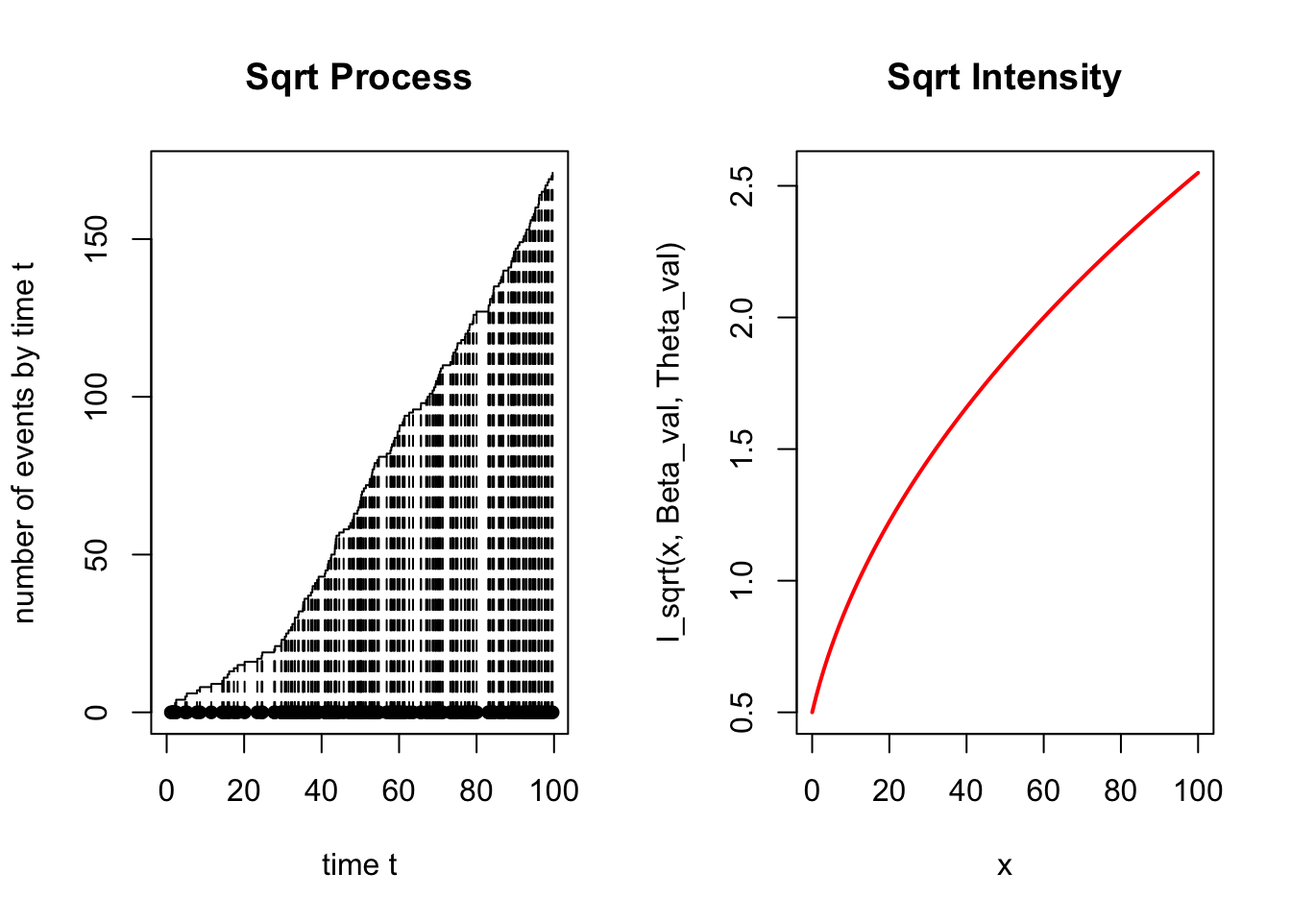
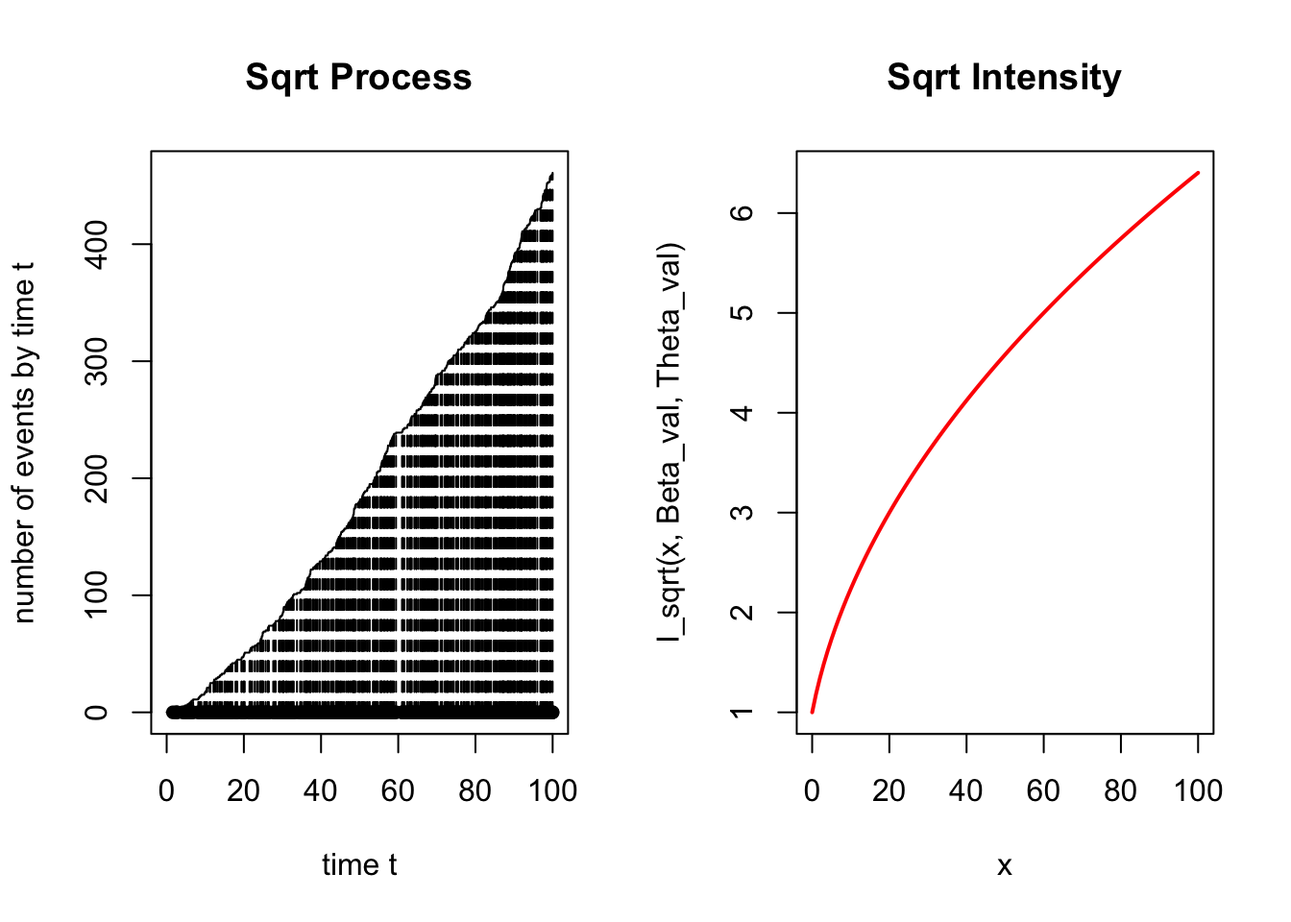
push final simulation

diff --git a/Simulation/TP-PoissonProcess-fusion.html b/Simulation/TP-PoissonProcess-fusion.html
@@ -179,10 +179,13 @@ window.Quarto = {
 <h2 class="anchored" data-anchor-id="intensity-functions">Intensity functions</h2>
 <p>We define different intensity functions such that for <span class="math inline">\(H_0 : \beta =1\)</span> the intensity has a constant rate.</p>
 <div class="cell">
-<div class="code-copy-outer-scaffold"><div class="sourceCode cell-code" id="cb4"><pre class="sourceCode r code-with-copy"><code class="sourceCode r"><span id="cb4-1"><a href="#cb4-1" aria-hidden="true" tabindex="-1"></a>Weibull_I <span class="ot">&lt;-</span> <span class="cf">function</span>(x, beta, theta) (beta <span class="sc">/</span> theta) <span class="sc">*</span> (x <span class="sc">/</span> theta)<span class="sc">^</span>(beta <span class="sc">-</span> <span class="dv">1</span>)</span>
-<span id="cb4-2"><a href="#cb4-2" aria-hidden="true" tabindex="-1"></a>I_exp    <span class="ot">&lt;-</span> <span class="cf">function</span>(t, beta, theta) (<span class="dv">1</span><span class="sc">/</span><span class="dv">50</span><span class="sc">*</span>theta) <span class="sc">*</span> <span class="fu">exp</span>((beta <span class="sc">-</span> <span class="dv">1</span>) <span class="sc">*</span> t <span class="sc">/</span> <span class="dv">50</span><span class="sc">*</span>theta)</span>
-<span id="cb4-3"><a href="#cb4-3" aria-hidden="true" tabindex="-1"></a>I_sqrt <span class="ot">&lt;-</span> <span class="cf">function</span>(t, beta, theta) (<span class="dv">1</span><span class="sc">/</span>theta) <span class="sc">*</span> <span class="fu">sqrt</span>(<span class="dv">1</span> <span class="sc">+</span> (beta <span class="sc">-</span> <span class="dv">1</span>) <span class="sc">*</span> t <span class="sc">/</span> theta)</span>
-<span id="cb4-4"><a href="#cb4-4" aria-hidden="true" tabindex="-1"></a>I_log <span class="ot">&lt;-</span> <span class="cf">function</span>(t, beta, theta) (<span class="dv">1</span><span class="sc">/</span>theta) <span class="sc">*</span> (<span class="dv">1</span> <span class="sc">+</span> (beta <span class="sc">-</span> <span class="dv">1</span>) <span class="sc">*</span> <span class="fu">log</span>(<span class="dv">1</span> <span class="sc">+</span> t <span class="sc">/</span> theta))</span></code></pre></div><button title="Copy to Clipboard" class="code-copy-button"><i class="bi"></i></button></div>
+<div class="code-copy-outer-scaffold"><div class="sourceCode cell-code" id="cb4"><pre class="sourceCode r code-with-copy"><code class="sourceCode r"><span id="cb4-1"><a href="#cb4-1" aria-hidden="true" tabindex="-1"></a>Weibull_I <span class="ot">&lt;-</span> <span class="cf">function</span>(x, beta, theta) {(beta <span class="sc">/</span> theta) <span class="sc">*</span> (x <span class="sc">/</span> theta)<span class="sc">^</span>(beta <span class="sc">-</span> <span class="dv">1</span>)}</span>
+<span id="cb4-2"><a href="#cb4-2" aria-hidden="true" tabindex="-1"></a></span>
+<span id="cb4-3"><a href="#cb4-3" aria-hidden="true" tabindex="-1"></a>I_sigm <span class="ot">&lt;-</span> <span class="cf">function</span>(t, beta, theta) {<span class="dv">1</span> <span class="sc">+</span> (beta <span class="sc">-</span> <span class="dv">1</span>) <span class="sc">/</span> (<span class="dv">1</span> <span class="sc">+</span> <span class="fu">exp</span>(<span class="sc">-</span>(t <span class="sc">-</span> theta)))}</span>
+<span id="cb4-4"><a href="#cb4-4" aria-hidden="true" tabindex="-1"></a></span>
+<span id="cb4-5"><a href="#cb4-5" aria-hidden="true" tabindex="-1"></a></span>
+<span id="cb4-6"><a href="#cb4-6" aria-hidden="true" tabindex="-1"></a>I_sqrt <span class="ot">&lt;-</span> <span class="cf">function</span>(t, beta, theta){ (<span class="dv">1</span><span class="sc">/</span>theta) <span class="sc">*</span> <span class="fu">sqrt</span>(<span class="dv">1</span> <span class="sc">+</span> (beta <span class="sc">-</span> <span class="dv">1</span>) <span class="sc">*</span> t <span class="sc">/</span> theta)}</span>
+<span id="cb4-7"><a href="#cb4-7" aria-hidden="true" tabindex="-1"></a>I_log <span class="ot">&lt;-</span> <span class="cf">function</span>(t, beta, theta) {(<span class="dv">1</span><span class="sc">/</span>theta) <span class="sc">*</span> (<span class="dv">1</span> <span class="sc">+</span> (beta <span class="sc">-</span> <span class="dv">1</span>) <span class="sc">*</span> <span class="fu">log</span>(<span class="dv">1</span> <span class="sc">+</span> t <span class="sc">/</span> theta))}</span></code></pre></div><button title="Copy to Clipboard" class="code-copy-button"><i class="bi"></i></button></div>
 </div>
 </section>
 <section id="simulation-functions" class="level2">
@@ -190,26 +193,26 @@ window.Quarto = {
 <p>We now define the function needed to simulate the PP for each intensity function</p>
 <div class="cell">
 <div class="code-copy-outer-scaffold"><div class="sourceCode cell-code" id="cb5"><pre class="sourceCode r code-with-copy"><code class="sourceCode r"><span id="cb5-1"><a href="#cb5-1" aria-hidden="true" tabindex="-1"></a>simulWeibull <span class="ot">&lt;-</span> <span class="cf">function</span>(beta, theta, Tmax) {</span>
-<span id="cb5-2"><a href="#cb5-2" aria-hidden="true" tabindex="-1"></a>  f     <span class="ot">&lt;-</span> <span class="cf">function</span>(t) <span class="fu">Weibull_I</span>(t, beta, theta)</span>
+<span id="cb5-2"><a href="#cb5-2" aria-hidden="true" tabindex="-1"></a>  f     <span class="ot">&lt;-</span> <span class="cf">function</span>(t) {<span class="fu">Weibull_I</span>(t, beta, theta)}</span>
 <span id="cb5-3"><a href="#cb5-3" aria-hidden="true" tabindex="-1"></a>  M_val <span class="ot">&lt;-</span> <span class="fu">f</span>(Tmax)</span>
 <span id="cb5-4"><a href="#cb5-4" aria-hidden="true" tabindex="-1"></a>  <span class="fu">return</span>(<span class="fu">simulPPi</span>(f, Tmax, M_val))</span>
 <span id="cb5-5"><a href="#cb5-5" aria-hidden="true" tabindex="-1"></a>}</span>
 <span id="cb5-6"><a href="#cb5-6" aria-hidden="true" tabindex="-1"></a></span>
 <span id="cb5-7"><a href="#cb5-7" aria-hidden="true" tabindex="-1"></a></span>
 <span id="cb5-8"><a href="#cb5-8" aria-hidden="true" tabindex="-1"></a>simulLog <span class="ot">&lt;-</span> <span class="cf">function</span>(beta, theta, Tmax) {</span>
-<span id="cb5-9"><a href="#cb5-9" aria-hidden="true" tabindex="-1"></a>  f     <span class="ot">&lt;-</span> <span class="cf">function</span>(t) <span class="fu">I_log</span>(t, beta, theta)</span>
+<span id="cb5-9"><a href="#cb5-9" aria-hidden="true" tabindex="-1"></a>  f     <span class="ot">&lt;-</span> <span class="cf">function</span>(t) {<span class="fu">I_log</span>(t, beta, theta)}</span>
 <span id="cb5-10"><a href="#cb5-10" aria-hidden="true" tabindex="-1"></a>  M_val <span class="ot">&lt;-</span> <span class="fu">f</span>(Tmax)</span>
 <span id="cb5-11"><a href="#cb5-11" aria-hidden="true" tabindex="-1"></a>  <span class="fu">return</span>(<span class="fu">simulPPi</span>(f, Tmax, M_val))</span>
 <span id="cb5-12"><a href="#cb5-12" aria-hidden="true" tabindex="-1"></a>}</span>
 <span id="cb5-13"><a href="#cb5-13" aria-hidden="true" tabindex="-1"></a></span>
-<span id="cb5-14"><a href="#cb5-14" aria-hidden="true" tabindex="-1"></a>simulExp <span class="ot">&lt;-</span> <span class="cf">function</span>(beta, theta, Tmax) {</span>
-<span id="cb5-15"><a href="#cb5-15" aria-hidden="true" tabindex="-1"></a>  f     <span class="ot">&lt;-</span> <span class="cf">function</span>(t) <span class="fu">I_exp</span>(t, beta, theta)</span>
+<span id="cb5-14"><a href="#cb5-14" aria-hidden="true" tabindex="-1"></a>simulSigm <span class="ot">&lt;-</span> <span class="cf">function</span>(beta, theta, Tmax) {</span>
+<span id="cb5-15"><a href="#cb5-15" aria-hidden="true" tabindex="-1"></a>  f     <span class="ot">&lt;-</span> <span class="cf">function</span>(t) {<span class="fu">I_sigm</span>(t, beta, theta)}</span>
 <span id="cb5-16"><a href="#cb5-16" aria-hidden="true" tabindex="-1"></a>  M_val <span class="ot">&lt;-</span> <span class="fu">f</span>(Tmax)</span>
 <span id="cb5-17"><a href="#cb5-17" aria-hidden="true" tabindex="-1"></a>  <span class="fu">return</span>(<span class="fu">simulPPi</span>(f, Tmax, M_val))</span>
 <span id="cb5-18"><a href="#cb5-18" aria-hidden="true" tabindex="-1"></a>}</span>
 <span id="cb5-19"><a href="#cb5-19" aria-hidden="true" tabindex="-1"></a></span>
 <span id="cb5-20"><a href="#cb5-20" aria-hidden="true" tabindex="-1"></a>simulSqrt <span class="ot">&lt;-</span> <span class="cf">function</span>(beta, theta, Tmax) {</span>
-<span id="cb5-21"><a href="#cb5-21" aria-hidden="true" tabindex="-1"></a>  f     <span class="ot">&lt;-</span> <span class="cf">function</span>(t) <span class="fu">I_sqrt</span>(t, beta, theta)</span>
+<span id="cb5-21"><a href="#cb5-21" aria-hidden="true" tabindex="-1"></a>  f     <span class="ot">&lt;-</span> <span class="cf">function</span>(t) {<span class="fu">I_sqrt</span>(t, beta, theta)}</span>
 <span id="cb5-22"><a href="#cb5-22" aria-hidden="true" tabindex="-1"></a>  M_val <span class="ot">&lt;-</span> <span class="fu">f</span>(Tmax)</span>
 <span id="cb5-23"><a href="#cb5-23" aria-hidden="true" tabindex="-1"></a>  <span class="fu">return</span>(<span class="fu">simulPPi</span>(f, Tmax, M_val))</span>
 <span id="cb5-24"><a href="#cb5-24" aria-hidden="true" tabindex="-1"></a>}</span></code></pre></div><button title="Copy to Clipboard" class="code-copy-button"><i class="bi"></i></button></div>
@@ -219,8 +222,8 @@ window.Quarto = {
 <h2 class="anchored" data-anchor-id="simulation-and-plot">Simulation and plot</h2>
 <p>Let’s see !</p>
 <div class="cell">
-<div class="code-copy-outer-scaffold"><div class="sourceCode cell-code" id="cb6"><pre class="sourceCode r code-with-copy"><code class="sourceCode r"><span id="cb6-1"><a href="#cb6-1" aria-hidden="true" tabindex="-1"></a>Beta_val  <span class="ot">&lt;-</span> <span class="fl">1.5</span></span>
-<span id="cb6-2"><a href="#cb6-2" aria-hidden="true" tabindex="-1"></a>Theta_val <span class="ot">&lt;-</span> <span class="dv">2</span></span>
+<div class="code-copy-outer-scaffold"><div class="sourceCode cell-code" id="cb6"><pre class="sourceCode r code-with-copy"><code class="sourceCode r"><span id="cb6-1"><a href="#cb6-1" aria-hidden="true" tabindex="-1"></a>Beta_val  <span class="ot">&lt;-</span> <span class="fl">1.4</span></span>
+<span id="cb6-2"><a href="#cb6-2" aria-hidden="true" tabindex="-1"></a>Theta_val <span class="ot">&lt;-</span> <span class="dv">1</span></span>
 <span id="cb6-3"><a href="#cb6-3" aria-hidden="true" tabindex="-1"></a>Tmax_val  <span class="ot">&lt;-</span> <span class="dv">100</span></span>
 <span id="cb6-4"><a href="#cb6-4" aria-hidden="true" tabindex="-1"></a></span>
 <span id="cb6-5"><a href="#cb6-5" aria-hidden="true" tabindex="-1"></a><span class="fu">par</span>(<span class="at">mfrow =</span> <span class="fu">c</span>(<span class="dv">1</span>, <span class="dv">2</span>))</span>
@@ -246,9 +249,9 @@ window.Quarto = {
 </div>
 </div>
 <div class="code-copy-outer-scaffold"><div class="sourceCode cell-code" id="cb8"><pre class="sourceCode r code-with-copy"><code class="sourceCode r"><span id="cb8-1"><a href="#cb8-1" aria-hidden="true" tabindex="-1"></a><span class="fu">par</span>(<span class="at">mfrow =</span> <span class="fu">c</span>(<span class="dv">1</span>, <span class="dv">2</span>))</span>
-<span id="cb8-2"><a href="#cb8-2" aria-hidden="true" tabindex="-1"></a>simE <span class="ot">&lt;-</span> <span class="fu">simulExp</span>(Beta_val, Theta_val, Tmax_val)</span>
-<span id="cb8-3"><a href="#cb8-3" aria-hidden="true" tabindex="-1"></a><span class="fu">plot.PP</span>(simE); <span class="fu">title</span>(<span class="st">"Exp Process"</span>)</span>
-<span id="cb8-4"><a href="#cb8-4" aria-hidden="true" tabindex="-1"></a><span class="fu">curve</span>(<span class="fu">I_exp</span>(x, Beta_val, Theta_val), <span class="dv">0</span>, Tmax_val, <span class="at">col =</span> <span class="st">"red"</span>, <span class="at">lwd =</span> <span class="dv">2</span>, <span class="at">main =</span> <span class="st">"Exp Intensity"</span>)</span></code></pre></div><button title="Copy to Clipboard" class="code-copy-button"><i class="bi"></i></button></div>
+<span id="cb8-2"><a href="#cb8-2" aria-hidden="true" tabindex="-1"></a>simSg <span class="ot">&lt;-</span> <span class="fu">simulSigm</span>(Beta_val, Theta_val, Tmax_val)</span>
+<span id="cb8-3"><a href="#cb8-3" aria-hidden="true" tabindex="-1"></a><span class="fu">plot.PP</span>(simSg); <span class="fu">title</span>(<span class="st">"Sigmoid Process"</span>)</span>
+<span id="cb8-4"><a href="#cb8-4" aria-hidden="true" tabindex="-1"></a><span class="fu">curve</span>(<span class="fu">I_sigm</span>(x, Beta_val, Theta_val), <span class="dv">0</span>, Tmax_val, <span class="at">col =</span> <span class="st">"red"</span>, <span class="at">lwd =</span> <span class="dv">2</span>, <span class="at">main =</span> <span class="st">"Sigmoid Intensity"</span>)</span></code></pre></div><button title="Copy to Clipboard" class="code-copy-button"><i class="bi"></i></button></div>
 <div class="cell-output-display">
 <div>
 <figure class="figure">
@@ -399,13 +402,13 @@ window.Quarto = {
 <span id="cb22-27"><a href="#cb22-27" aria-hidden="true" tabindex="-1"></a>  <span class="fu">abline</span>(<span class="at">h =</span> <span class="fl">0.05</span>, <span class="at">col =</span> <span class="st">"darkgrey"</span>, <span class="at">lty =</span> <span class="dv">2</span>)</span>
 <span id="cb22-28"><a href="#cb22-28" aria-hidden="true" tabindex="-1"></a>  <span class="fu">lines</span>(liste_beta, puissances_C, <span class="at">col =</span> <span class="st">"blue"</span>, <span class="at">lwd =</span> <span class="dv">2</span>, <span class="at">type =</span> <span class="st">"b"</span>, <span class="at">pch =</span> <span class="dv">19</span>)</span>
 <span id="cb22-29"><a href="#cb22-29" aria-hidden="true" tabindex="-1"></a>  <span class="fu">lines</span>(liste_beta, puissances_B, <span class="at">col =</span> <span class="st">"red"</span>,  <span class="at">lwd =</span> <span class="dv">2</span>, <span class="at">type =</span> <span class="st">"b"</span>, <span class="at">pch =</span> <span class="dv">17</span>)</span>
-<span id="cb22-30"><a href="#cb22-30" aria-hidden="true" tabindex="-1"></a>  <span class="fu">legend</span>(<span class="st">"bottomright"</span>, <span class="at">legend =</span> <span class="fu">c</span>(<span class="st">"Crow"</span>, <span class="st">"Barlow"</span>),</span>
+<span id="cb22-30"><a href="#cb22-30" aria-hidden="true" tabindex="-1"></a>  <span class="fu">legend</span>(<span class="st">"topright"</span>, <span class="at">legend =</span> <span class="fu">c</span>(<span class="st">"Crow"</span>, <span class="st">"Barlow"</span>),</span>
 <span id="cb22-31"><a href="#cb22-31" aria-hidden="true" tabindex="-1"></a>         <span class="at">col =</span> <span class="fu">c</span>(<span class="st">"blue"</span>, <span class="st">"red"</span>), <span class="at">lwd =</span> <span class="dv">2</span>, <span class="at">pch =</span> <span class="fu">c</span>(<span class="dv">19</span>, <span class="dv">17</span>), <span class="at">bty =</span> <span class="st">"n"</span>)</span>
 <span id="cb22-32"><a href="#cb22-32" aria-hidden="true" tabindex="-1"></a>}</span></code></pre></div><button title="Copy to Clipboard" class="code-copy-button"><i class="bi"></i></button></div>
 </div>
 <div class="cell">
-<div class="code-copy-outer-scaffold"><div class="sourceCode cell-code" id="cb23"><pre class="sourceCode r code-with-copy"><code class="sourceCode r"><span id="cb23-1"><a href="#cb23-1" aria-hidden="true" tabindex="-1"></a>betas_test <span class="ot">&lt;-</span> <span class="fu">seq</span>(<span class="dv">1</span>, <span class="fl">1.5</span>, <span class="at">by =</span> <span class="fl">0.1</span>)</span>
-<span id="cb23-2"><a href="#cb23-2" aria-hidden="true" tabindex="-1"></a>nsimu      <span class="ot">&lt;-</span> <span class="dv">100</span></span>
+<div class="code-copy-outer-scaffold"><div class="sourceCode cell-code" id="cb23"><pre class="sourceCode r code-with-copy"><code class="sourceCode r"><span id="cb23-1"><a href="#cb23-1" aria-hidden="true" tabindex="-1"></a>betas_test <span class="ot">&lt;-</span> <span class="fu">seq</span>(<span class="dv">1</span>, <span class="fl">1.6</span>, <span class="at">by =</span> <span class="fl">0.1</span>)</span>
+<span id="cb23-2"><a href="#cb23-2" aria-hidden="true" tabindex="-1"></a>nsimu      <span class="ot">&lt;-</span> <span class="dv">20</span></span>
 <span id="cb23-3"><a href="#cb23-3" aria-hidden="true" tabindex="-1"></a></span>
 <span id="cb23-4"><a href="#cb23-4" aria-hidden="true" tabindex="-1"></a><span class="fu">par</span>(<span class="at">mfrow =</span> <span class="fu">c</span>(<span class="dv">2</span>, <span class="dv">2</span>))</span>
 <span id="cb23-5"><a href="#cb23-5" aria-hidden="true" tabindex="-1"></a><span class="fu">plot_puissance_beta</span>(simulWeibull, betas_test, <span class="at">Tmax =</span> <span class="dv">100</span>, <span class="at">nsimu =</span> nsimu,</span>
@@ -418,8 +421,8 @@ window.Quarto = {
 <span id="cb23-12"><a href="#cb23-12" aria-hidden="true" tabindex="-1"></a><span class="fu">plot_puissance_beta</span>(simulSqrt, betas_test, <span class="at">Tmax =</span> <span class="dv">100</span>, <span class="at">nsimu =</span> nsimu,</span>
 <span id="cb23-13"><a href="#cb23-13" aria-hidden="true" tabindex="-1"></a>                    <span class="at">theta =</span> <span class="dv">1</span>, <span class="at">titre =</span> <span class="st">"Sqrt"</span>)</span>
 <span id="cb23-14"><a href="#cb23-14" aria-hidden="true" tabindex="-1"></a></span>
-<span id="cb23-15"><a href="#cb23-15" aria-hidden="true" tabindex="-1"></a><span class="fu">plot_puissance_beta</span>(simulExp, betas_test, <span class="at">Tmax =</span> <span class="dv">100</span>, <span class="at">nsimu =</span> nsimu,</span>
-<span id="cb23-16"><a href="#cb23-16" aria-hidden="true" tabindex="-1"></a>                    <span class="at">theta =</span> <span class="dv">1</span>, <span class="at">titre =</span> <span class="st">"Exp"</span>)</span></code></pre></div><button title="Copy to Clipboard" class="code-copy-button"><i class="bi"></i></button></div>
+<span id="cb23-15"><a href="#cb23-15" aria-hidden="true" tabindex="-1"></a><span class="fu">plot_puissance_beta</span>(simulSigm, betas_test, <span class="at">Tmax =</span> <span class="dv">100</span>, <span class="at">nsimu =</span> nsimu,</span>
+<span id="cb23-16"><a href="#cb23-16" aria-hidden="true" tabindex="-1"></a>                    <span class="at">theta =</span> <span class="dv">1</span>, <span class="at">titre =</span> <span class="st">"Sigmoid"</span>)</span></code></pre></div><button title="Copy to Clipboard" class="code-copy-button"><i class="bi"></i></button></div>
 <div class="cell-output-display">
 <div>
 <figure class="figure">
@@ -462,7 +465,7 @@ window.Quarto = {
 <span id="cb24-27"><a href="#cb24-27" aria-hidden="true" tabindex="-1"></a>  <span class="fu">abline</span>(<span class="at">h =</span> <span class="fl">0.05</span>, <span class="at">col =</span> <span class="st">"darkgrey"</span>, <span class="at">lty =</span> <span class="dv">2</span>)</span>
 <span id="cb24-28"><a href="#cb24-28" aria-hidden="true" tabindex="-1"></a>  <span class="fu">lines</span>(liste_Tmax, puissances_C, <span class="at">col =</span> <span class="st">"blue"</span>, <span class="at">lwd =</span> <span class="dv">2</span>, <span class="at">type =</span> <span class="st">"b"</span>, <span class="at">pch =</span> <span class="dv">19</span>)</span>
 <span id="cb24-29"><a href="#cb24-29" aria-hidden="true" tabindex="-1"></a>  <span class="fu">lines</span>(liste_Tmax, puissances_B, <span class="at">col =</span> <span class="st">"red"</span>,  <span class="at">lwd =</span> <span class="dv">2</span>, <span class="at">type =</span> <span class="st">"b"</span>, <span class="at">pch =</span> <span class="dv">17</span>)</span>
-<span id="cb24-30"><a href="#cb24-30" aria-hidden="true" tabindex="-1"></a>  <span class="fu">legend</span>(<span class="st">"bottomright"</span>, <span class="at">legend =</span> <span class="fu">c</span>(<span class="st">"Crow"</span>, <span class="st">"Barlow"</span>),</span>
+<span id="cb24-30"><a href="#cb24-30" aria-hidden="true" tabindex="-1"></a>  <span class="fu">legend</span>(<span class="st">"topright"</span>, <span class="at">legend =</span> <span class="fu">c</span>(<span class="st">"Crow"</span>, <span class="st">"Barlow"</span>),</span>
 <span id="cb24-31"><a href="#cb24-31" aria-hidden="true" tabindex="-1"></a>         <span class="at">col =</span> <span class="fu">c</span>(<span class="st">"blue"</span>, <span class="st">"red"</span>), <span class="at">lwd =</span> <span class="dv">2</span>, <span class="at">pch =</span> <span class="fu">c</span>(<span class="dv">19</span>, <span class="dv">17</span>), <span class="at">bty =</span> <span class="st">"n"</span>)</span>
 <span id="cb24-32"><a href="#cb24-32" aria-hidden="true" tabindex="-1"></a>}</span></code></pre></div><button title="Copy to Clipboard" class="code-copy-button"><i class="bi"></i></button></div>
 </div>
@@ -478,8 +481,8 @@ window.Quarto = {
 <span id="cb25-9"><a href="#cb25-9" aria-hidden="true" tabindex="-1"></a><span class="fu">plot_puissance_tmax</span>(simulLog, liste_Tmax, <span class="at">beta_fixe =</span> beta_fixe,</span>
 <span id="cb25-10"><a href="#cb25-10" aria-hidden="true" tabindex="-1"></a>                    <span class="at">nsimu =</span> nsimu, <span class="at">theta =</span> <span class="dv">1</span>, <span class="at">titre =</span> <span class="st">"Log"</span>)</span>
 <span id="cb25-11"><a href="#cb25-11" aria-hidden="true" tabindex="-1"></a></span>
-<span id="cb25-12"><a href="#cb25-12" aria-hidden="true" tabindex="-1"></a><span class="fu">plot_puissance_tmax</span>(simulExp, liste_Tmax, <span class="at">beta_fixe =</span> beta_fixe,</span>
-<span id="cb25-13"><a href="#cb25-13" aria-hidden="true" tabindex="-1"></a>                    <span class="at">nsimu =</span> nsimu, <span class="at">theta =</span> <span class="dv">1</span>, <span class="at">titre =</span> <span class="st">"Exp"</span>)</span>
+<span id="cb25-12"><a href="#cb25-12" aria-hidden="true" tabindex="-1"></a><span class="fu">plot_puissance_tmax</span>(simulSigm, liste_Tmax, <span class="at">beta_fixe =</span> beta_fixe,</span>
+<span id="cb25-13"><a href="#cb25-13" aria-hidden="true" tabindex="-1"></a>                    <span class="at">nsimu =</span> nsimu, <span class="at">theta =</span> <span class="dv">1</span>, <span class="at">titre =</span> <span class="st">"Sigmoid"</span>)</span>
 <span id="cb25-14"><a href="#cb25-14" aria-hidden="true" tabindex="-1"></a></span>
 <span id="cb25-15"><a href="#cb25-15" aria-hidden="true" tabindex="-1"></a><span class="fu">plot_puissance_tmax</span>(simulSqrt, liste_Tmax, <span class="at">beta_fixe =</span> beta_fixe,</span>
 <span id="cb25-16"><a href="#cb25-16" aria-hidden="true" tabindex="-1"></a>                    <span class="at">nsimu =</span> nsimu, <span class="at">theta =</span> <span class="dv">1</span>, <span class="at">titre =</span> <span class="st">"Sqrt"</span>)</span></code></pre></div><button title="Copy to Clipboard" class="code-copy-button"><i class="bi"></i></button></div>
@@ -493,6 +496,35 @@ window.Quarto = {
 </div>
 <hr>
 </section>
+</section>
+<section id="the-sigmoid-function" class="level1">
+<h1>The sigmoid Function</h1>
+<p>Crow and Barlow’s tests are designed to assess whether events accumulate progressively faster over the entire observation interval. When the underlying intensity follows a sigmoid shape, the process typically exhibits three phases: an initial flat period, a rapid increase, and a final flat period.</p>
+<p>The location of the transition point, denoted by \theta, strongly influences the behavior of the tests:</p>
+<ul>
+<li><p>Small <span class="math inline">\(\theta\)</span> (early jump): Events are concentrated at the beginning of the interval and become sparse later. This pattern may resemble a decreasing intensity, which can lead the tests to incorrectly reject in the wrong direction.</p></li>
+<li><p><span class="math inline">\(\theta = T_{\max}/2\)</span> (midpoint jump): The signal is mixed, with no clear dominance of either early or late accumulation, making the tests less decisive.</p></li>
+<li><p>Large <span class="math inline">\(\theta\)</span> (late jump): The process remains nearly flat for most of the interval, providing little evidence of any trend. As a result, the tests have low power.</p></li>
+</ul>
+<p>Overall, this behavior shows that Crow and Barlow’s tests implicitly rely on the assumption of a globally and smoothly increasing intensity. They are therefore sensitive to the shape of the alternative and may perform poorly when the true intensity deviates from this assumption.</p>
+<div class="cell">
+<div class="code-copy-outer-scaffold"><div class="sourceCode cell-code" id="cb26"><pre class="sourceCode r code-with-copy"><code class="sourceCode r"><span id="cb26-1"><a href="#cb26-1" aria-hidden="true" tabindex="-1"></a><span class="fu">par</span>(<span class="at">mfrow =</span> <span class="fu">c</span>(<span class="dv">2</span>, <span class="dv">2</span>))</span>
+<span id="cb26-2"><a href="#cb26-2" aria-hidden="true" tabindex="-1"></a><span class="fu">plot_puissance_beta</span>(simulSigm, betas_test, <span class="at">Tmax =</span> <span class="dv">100</span>, <span class="at">nsimu =</span> nsimu,</span>
+<span id="cb26-3"><a href="#cb26-3" aria-hidden="true" tabindex="-1"></a>                    <span class="at">theta =</span> <span class="dv">1</span>, <span class="at">titre =</span> <span class="st">"Sigmoid, Theta = 1"</span>)</span>
+<span id="cb26-4"><a href="#cb26-4" aria-hidden="true" tabindex="-1"></a></span>
+<span id="cb26-5"><a href="#cb26-5" aria-hidden="true" tabindex="-1"></a><span class="fu">plot_puissance_beta</span>(simulSigm, betas_test, <span class="at">Tmax =</span> <span class="dv">100</span>, <span class="at">nsimu =</span> nsimu,</span>
+<span id="cb26-6"><a href="#cb26-6" aria-hidden="true" tabindex="-1"></a>                    <span class="at">theta =</span> <span class="dv">50</span>, <span class="at">titre =</span> <span class="st">"Sigmoid, Theta = 50"</span>)</span>
+<span id="cb26-7"><a href="#cb26-7" aria-hidden="true" tabindex="-1"></a></span>
+<span id="cb26-8"><a href="#cb26-8" aria-hidden="true" tabindex="-1"></a><span class="fu">plot_puissance_beta</span>(simulSigm, betas_test, <span class="at">Tmax =</span> <span class="dv">100</span>, <span class="at">nsimu =</span> nsimu,</span>
+<span id="cb26-9"><a href="#cb26-9" aria-hidden="true" tabindex="-1"></a>                    <span class="at">theta =</span> <span class="dv">100</span>, <span class="at">titre =</span> <span class="st">"Sigmoid, Theta = 100"</span>)</span></code></pre></div><button title="Copy to Clipboard" class="code-copy-button"><i class="bi"></i></button></div>
+<div class="cell-output-display">
+<div>
+<figure class="figure">
+<p><img src="TP-PoissonProcess-fusion_files/figure-html/sigmoidpower-1.png" class="img-fluid figure-img" width="672"></p>
+</figure>
+</div>
+</div>
+</div>
 </section>
 
 </main>
